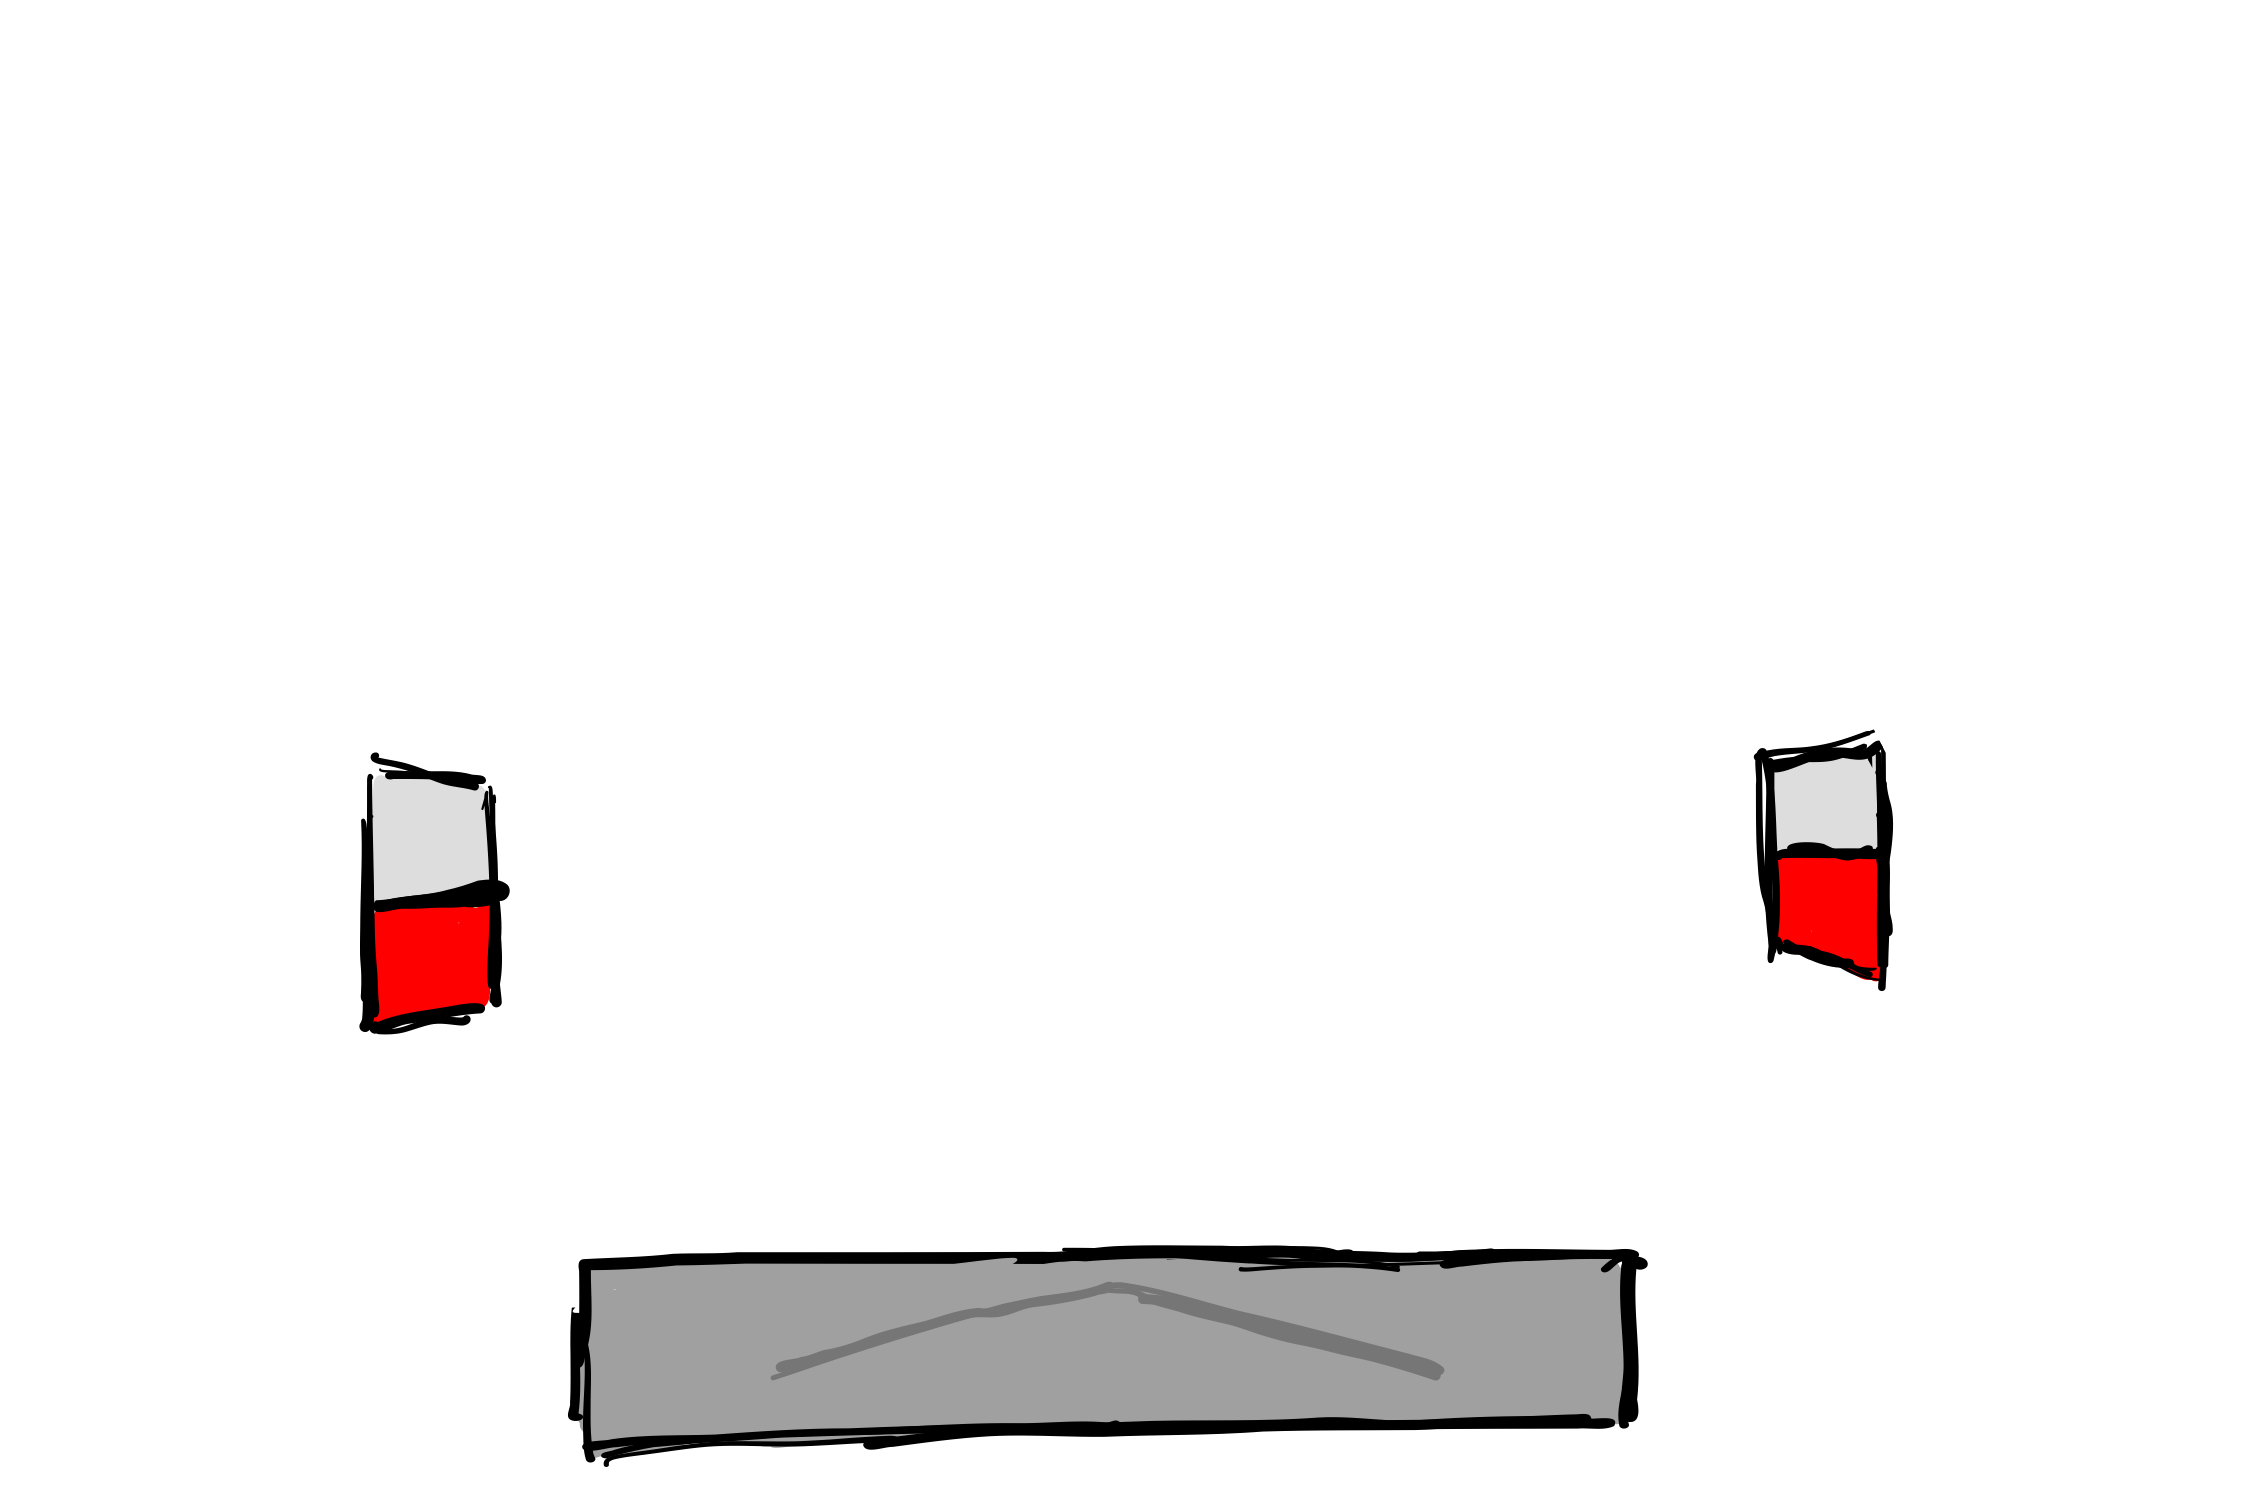
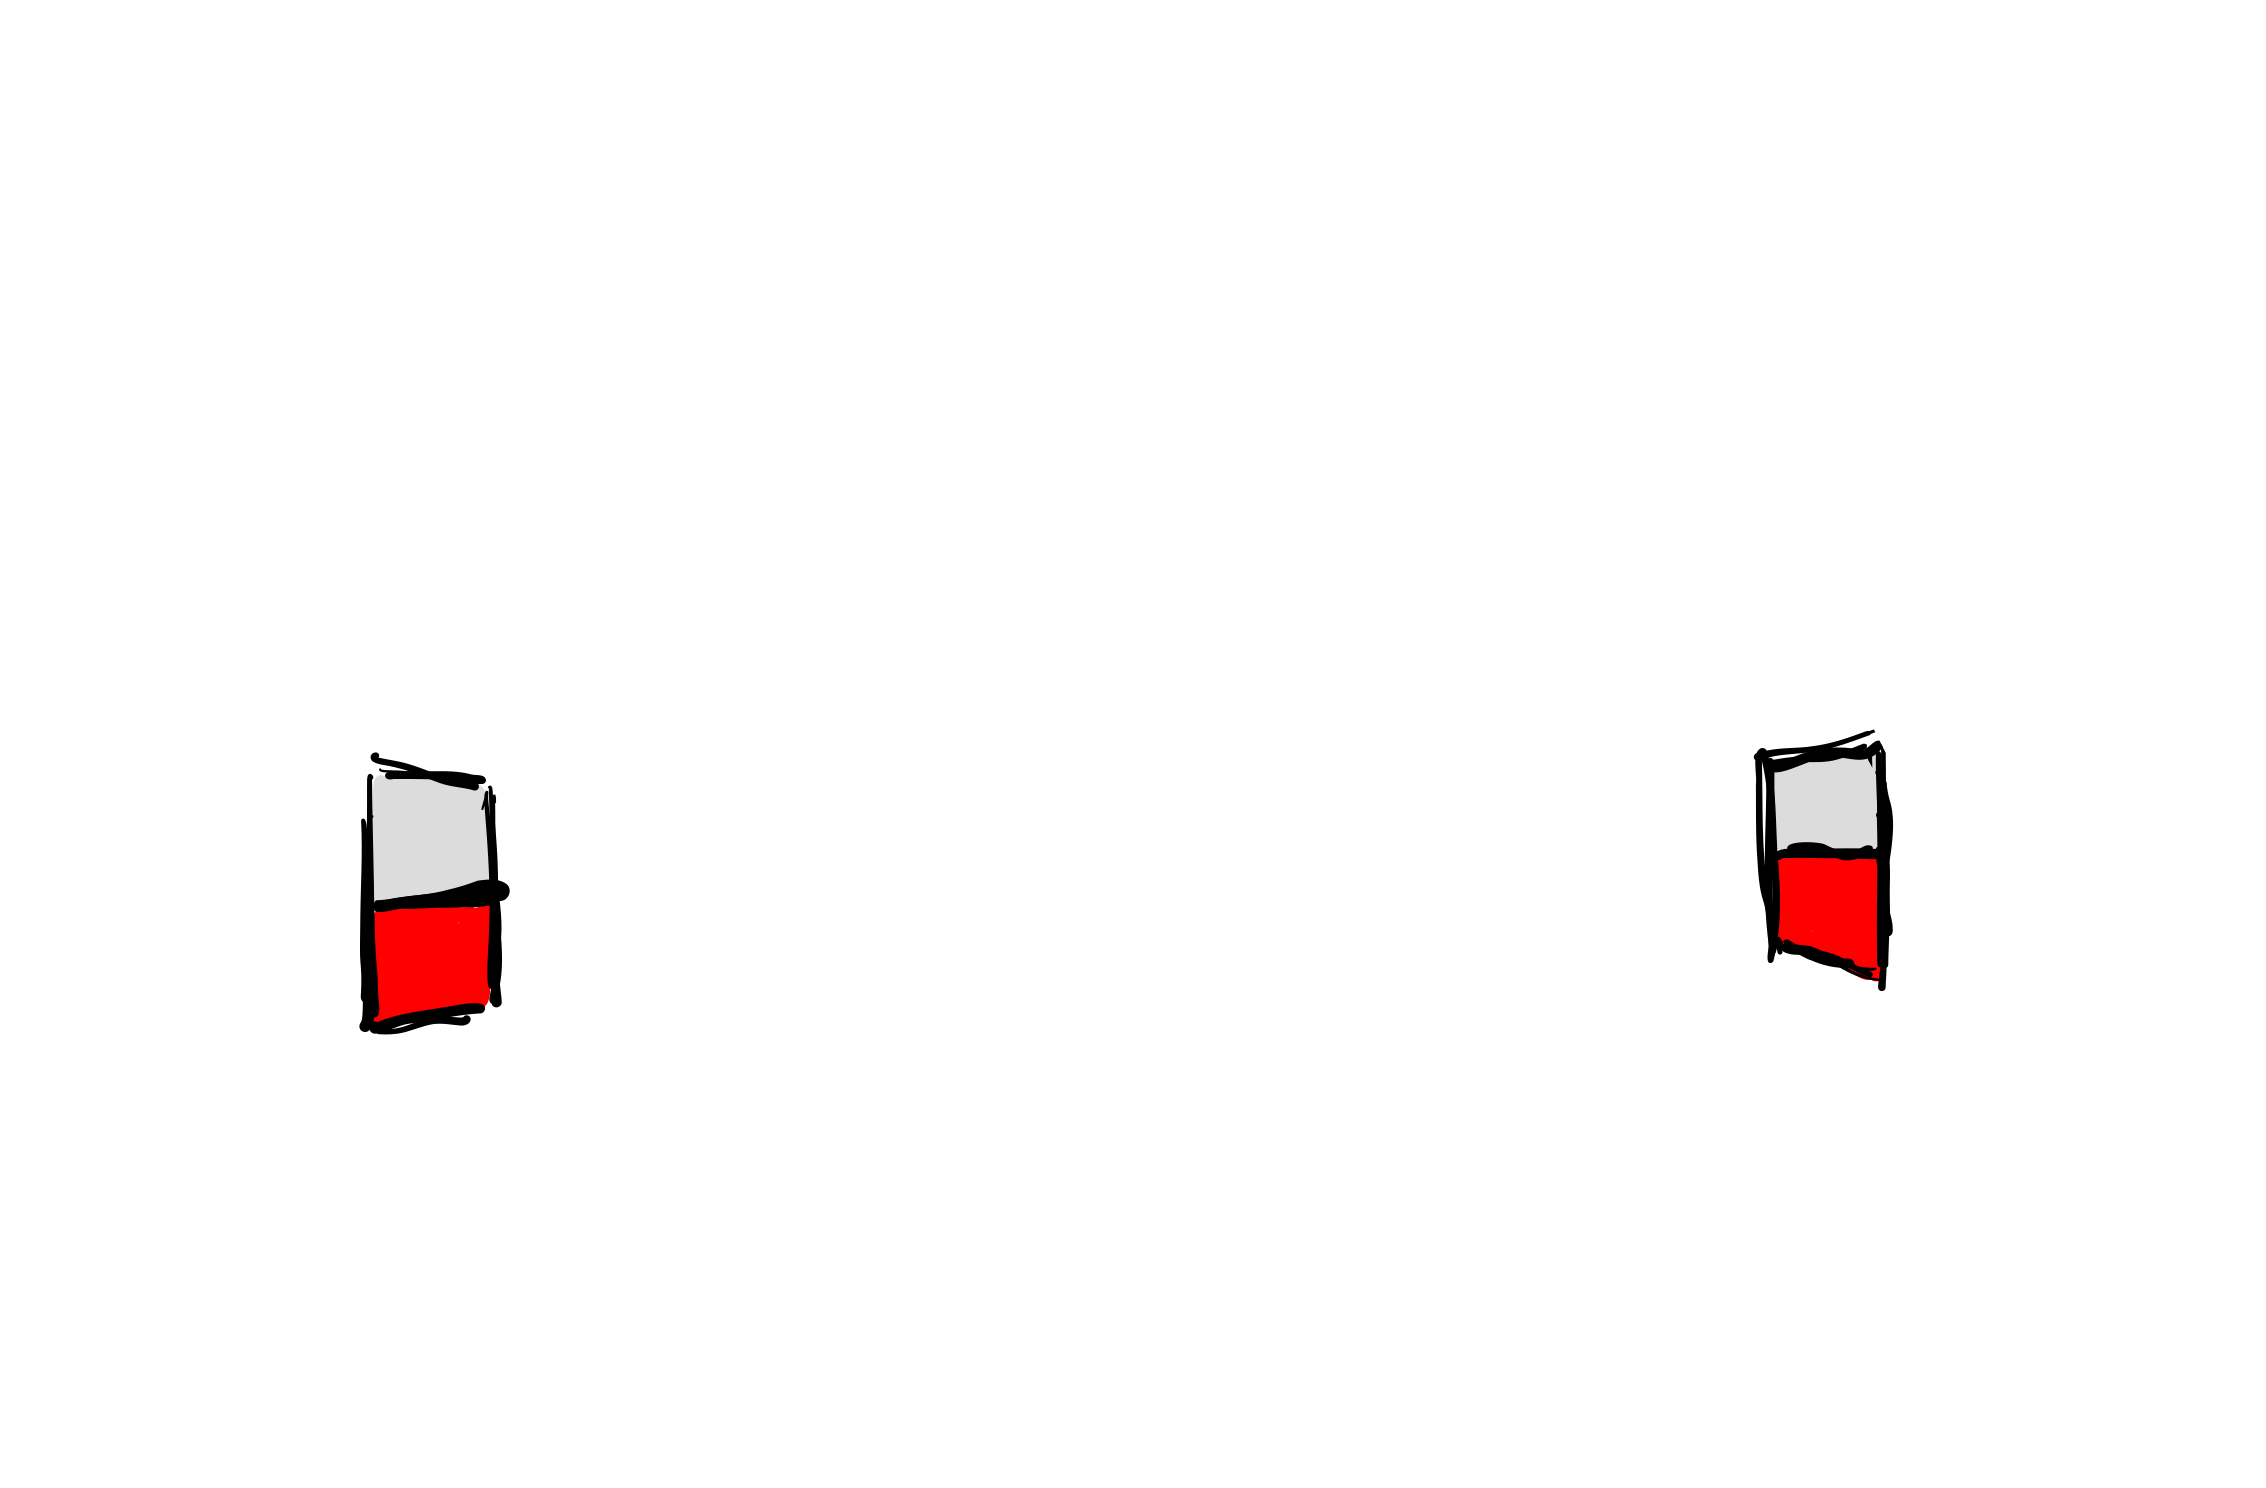
office is done, start camera

Changed region(s): [[0.2471, 0.8347, 0.7414, 0.9892]]

diff --git a/client/src/Game.tsx b/client/src/Game.tsx
@@ -3,6 +3,10 @@ import { useState } from "react";
 import { useInterval } from "usehooks-ts";
 
 import Office from "./components/office/Office.tsx";
+import Camera from "./components/camera/Camera.tsx";
+import CameraToggle from "./components/camera/CameraToggle.tsx"
+
+import fit from "./styles/fit.module.css";
 
 // Types
 export type Animatronic = {
@@ -46,7 +50,7 @@ const Game = () => {
     });
     const [count, setCount] = useState(1);
     const [done, setDone] = useState(false);
-    // const [camera, setCamera] = useState(1)
+    const [camera, setCamera] = useState(false)
 
     // Functions
     const moveAnimatronic = (animatronic: Animatronic) => {
@@ -86,12 +90,18 @@ const Game = () => {
 
     // Render the component
     return (
-        <>
-            <Office 
-                bonnie = { restaurant.animatronics.bonnie.position }
-                chica = { restaurant.animatronics.chica.position }
-            />
-        </>
+        <div className={fit.game}>
+            <div className={fit.aspect}>
+                {camera?
+                    <Camera />:
+                    <Office 
+                        bonnie = { restaurant.animatronics.bonnie.position }
+                        chica = { restaurant.animatronics.chica.position }
+                    />
+                }
+                <CameraToggle />
+            </div>
+        </div>
     );
 };
 

diff --git a/client/src/components/office/Office.tsx b/client/src/components/office/Office.tsx
@@ -1,19 +1,7 @@
 import { useState } from 'react'
 
-import OfficeBG from '../backgrounds/OfficeBG'
+import OfficeBG from './OfficeBG'
 import ControlPanel from './ControlPanel'
-
-import fit from '../../styles/fit.module.css'
-
-interface SideState {
-    light: boolean;
-    door: boolean;
-}
-
-interface OfficeState {
-    left: SideState;
-    right: SideState
-}
 
 interface OfficeProps {
     bonnie: number;
@@ -35,8 +23,7 @@ const Office = ({
     })
 
     return (
-        <div className={fit.game}>
-            <div className={fit.aspect}>
+        <>
                 <OfficeBG 
                     officeState = {officeState}
                     bonnie = { bonnie }
@@ -46,9 +33,7 @@ const Office = ({
                     officeState = { officeState }
                     setOfficeState = { setOfficeState }
                 />
-            </div>
-            {true || console.log(officeState)}
-        </div>
+        </>
     );
 };
 

diff --git a/client/src/components/camera/CameraToggle.tsx b/client/src/components/camera/CameraToggle.tsx
@@ -1,0 +1,24 @@
+import cameraToggle from "../../assets/Camera_Toggle.png";
+import cameraToggleBase from "../../assets/Camera_Toggle_Base.png";
+
+import backgroundStyle from "../../styles/background.module.css";
+import uiStyle from "../../styles/ui.module.css";
+
+const CameraToggle = () => {
+    return (
+        <div className={`${uiStyle.uiElement} ${uiStyle.cameraToggle}`}>
+            <img
+                src={cameraToggleBase}
+                alt="camera toggle base"
+                className={backgroundStyle.base}
+            />
+            <img
+                src={cameraToggle}
+                alt="camera toggle"
+                className={backgroundStyle.overlay}
+            />
+        </div>
+    );
+};
+
+export default CameraToggle;

diff --git a/client/src/components/office/OfficeBG.tsx b/client/src/components/office/OfficeBG.tsx
@@ -1,4 +1,3 @@
-import backgroundStyle from "../../styles/background.module.css";
 import office from "../../assets/Office.png";
 import controlPanel from "../../assets/Office_Controls.png";
 import hallsDark from "../../assets/Office_Dark.png";
@@ -8,6 +7,8 @@ import hallsBonnie from "../../assets/Office_Bonnie.png";
 import hallsChica from "../../assets/Office_Chica.png";
 import doorLeft from "../../assets/Office_Door_Left.png";
 import doorRight from "../../assets/Office_Door_Right.png";
+
+import backgroundStyle from "../../styles/background.module.css";
 
 interface OfficeBGProps {
     officeState: {

diff --git a/client/src/styles/ui.module.css b/client/src/styles/ui.module.css
@@ -1,0 +1,11 @@
+.uiElement {
+  position: absolute;
+  z-index: 100;            /* Always on top of backgrounds */
+  transform: translate(-50%, -50%);
+}
+
+.cameraToggle {
+  bottom: 5%;              /* Adjust to your taste */
+  right: 7%;
+  width: 10%;              /* Scales with .aspect */
+}

diff --git a/client/src/main.tsx b/client/src/main.tsx
@@ -3,8 +3,6 @@ import { createRoot } from "react-dom/client";
 
 import Game from "./Game.tsx";
 
-import mainStyle from "./styles/main.module.css"
-
 createRoot(document.getElementById("root")!).render(
     <StrictMode>
         <Game />

diff --git a/client/src/components/camera/Camera.tsx b/client/src/components/camera/Camera.tsx
@@ -1,0 +1,9 @@
+const Camera = () => {
+    return (
+        <>
+        
+        </>
+    )
+}
+
+export default Camera
